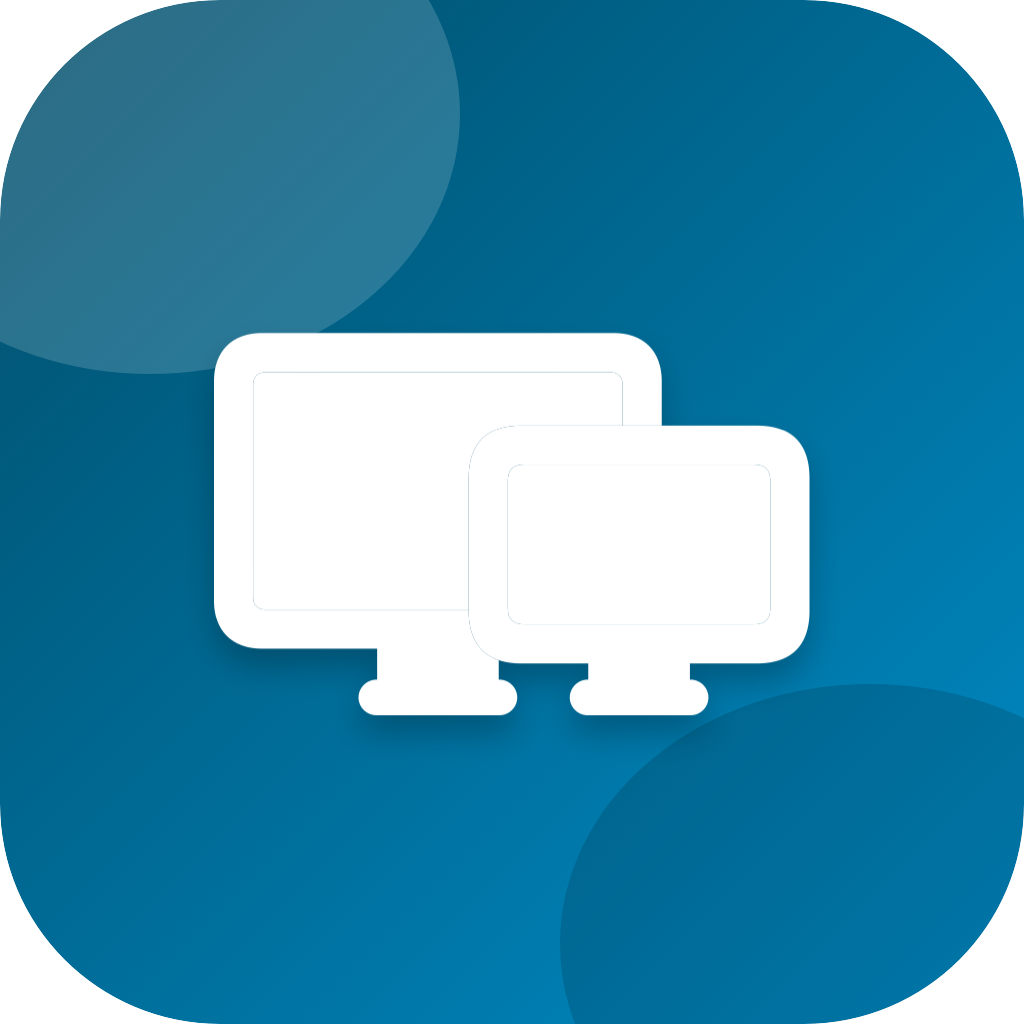
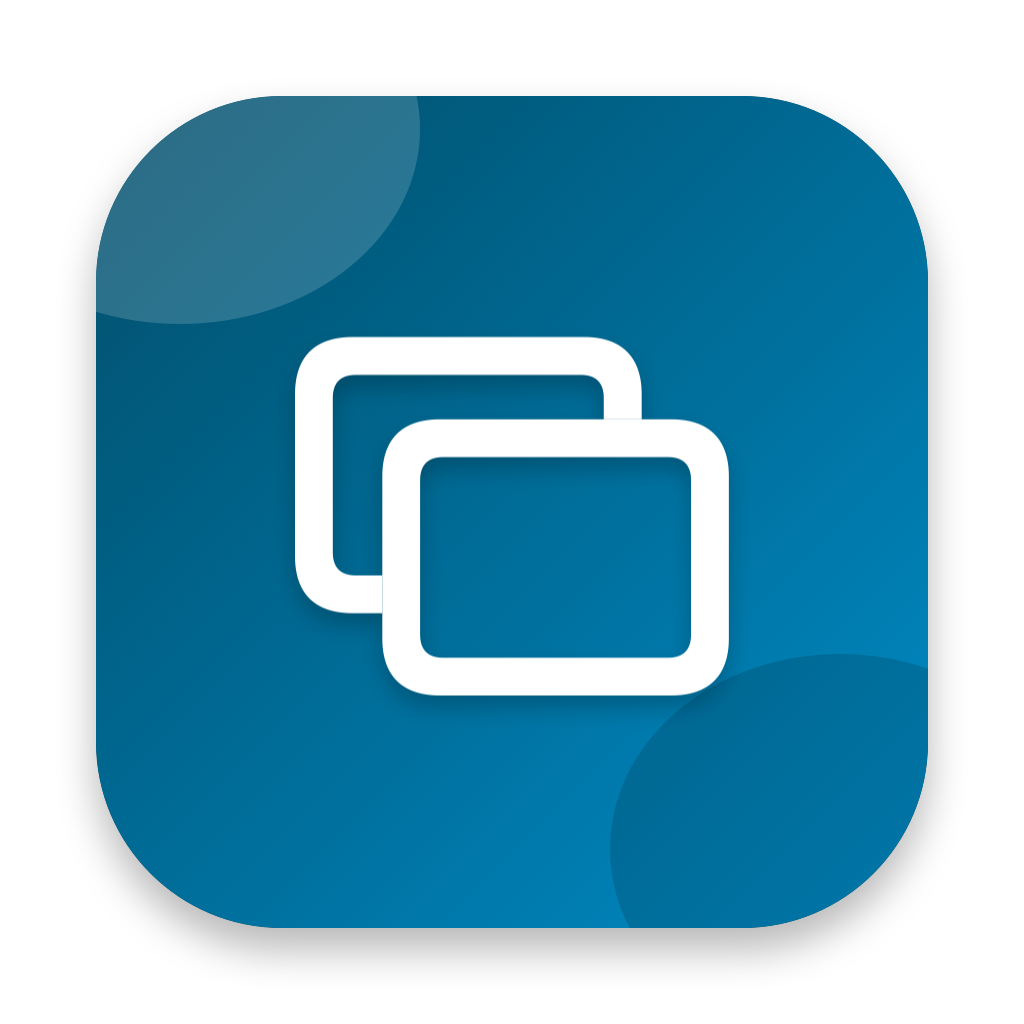
fix: 调整应用图标比例和符号

diff --git a/scripts/generate-app-icon.swift b/scripts/generate-app-icon.swift
@@ -12,6 +12,8 @@ private let resourceURL = URL(fileURLWithPath: FileManager.default.currentDirect
     .appendingPathComponent("Sources/DisplayRecall/Resources", isDirectory: true)
 private let iconsetURL = buildURL.appendingPathComponent("AppIcon.iconset", isDirectory: true)
 
+private let plateRect = CGRect(x: 96, y: 96, width: 832, height: 832)
+private let plateCornerRadius: CGFloat = 186
 private let backgroundTop = NSColor(calibratedRed: 0.04, green: 0.25, blue: 0.36, alpha: 1.0)
 private let backgroundBottom = NSColor(calibratedRed: 0.02, green: 0.45, blue: 0.70, alpha: 1.0)
 private let symbolColor = NSColor.white
@@ -19,7 +21,7 @@ private let symbolColor = NSColor.white
 private func makeSymbolImage(size: CGFloat) throws -> NSImage {
     let configuration = NSImage.SymbolConfiguration(pointSize: size, weight: .semibold)
         .applying(.init(paletteColors: [symbolColor]))
-    guard let image = NSImage(systemSymbolName: "display.2", accessibilityDescription: "Display Recall")?
+    guard let image = NSImage(systemSymbolName: "rectangle.on.rectangle", accessibilityDescription: "Display Recall")?
         .withSymbolConfiguration(configuration) else {
         throw CocoaError(.fileReadUnknown)
     }
@@ -31,30 +33,43 @@ private func drawIcon(in context: CGContext) throws {
     NSGraphicsContext.saveGraphicsState()
     NSGraphicsContext.current = NSGraphicsContext(cgContext: context, flipped: false)
 
-    let bounds = CGRect(x: 0, y: 0, width: canvas, height: canvas)
-    let background = NSBezierPath(roundedRect: bounds, xRadius: 220, yRadius: 220)
+    let background = NSBezierPath(
+        roundedRect: plateRect,
+        xRadius: plateCornerRadius,
+        yRadius: plateCornerRadius
+    )
+
+    context.setShadow(
+        offset: CGSize(width: 0, height: -22),
+        blur: 42,
+        color: NSColor.black.withAlphaComponent(0.28).cgColor
+    )
+    backgroundTop.setFill()
+    background.fill()
+    context.setShadow(offset: .zero, blur: 0, color: nil)
+
     background.addClip()
 
     let gradient = NSGradient(colors: [backgroundTop, backgroundBottom])!
     gradient.draw(in: background, angle: -45)
 
     NSColor(calibratedWhite: 1.0, alpha: 0.16).setFill()
-    NSBezierPath(ovalIn: CGRect(x: -160, y: 650, width: 620, height: 520)).fill()
+    NSBezierPath(ovalIn: CGRect(x: -60, y: 700, width: 480, height: 390)).fill()
     NSColor(calibratedWhite: 0.0, alpha: 0.14).setFill()
-    NSBezierPath(ovalIn: CGRect(x: 560, y: -180, width: 620, height: 520)).fill()
+    NSBezierPath(ovalIn: CGRect(x: 610, y: -20, width: 460, height: 390)).fill()
 
-    let symbol = try makeSymbolImage(size: 650)
+    let symbol = try makeSymbolImage(size: 460)
     let symbolSize = symbol.size
-    let scale = min(690 / symbolSize.width, 620 / symbolSize.height)
+    let scale = min(520 / symbolSize.width, 470 / symbolSize.height)
     let drawSize = CGSize(width: symbolSize.width * scale, height: symbolSize.height * scale)
     let symbolRect = CGRect(
         x: (canvas - drawSize.width) / 2,
-        y: (canvas - drawSize.height) / 2 - 12,
+        y: (canvas - drawSize.height) / 2 - 4,
         width: drawSize.width,
         height: drawSize.height
     )
 
-    context.setShadow(offset: CGSize(width: 0, height: -18), blur: 34, color: NSColor.black.withAlphaComponent(0.24).cgColor)
+    context.setShadow(offset: CGSize(width: 0, height: -12), blur: 24, color: NSColor.black.withAlphaComponent(0.22).cgColor)
     symbol.draw(in: symbolRect, from: .zero, operation: .sourceOver, fraction: 1.0)
 
     NSGraphicsContext.restoreGraphicsState()